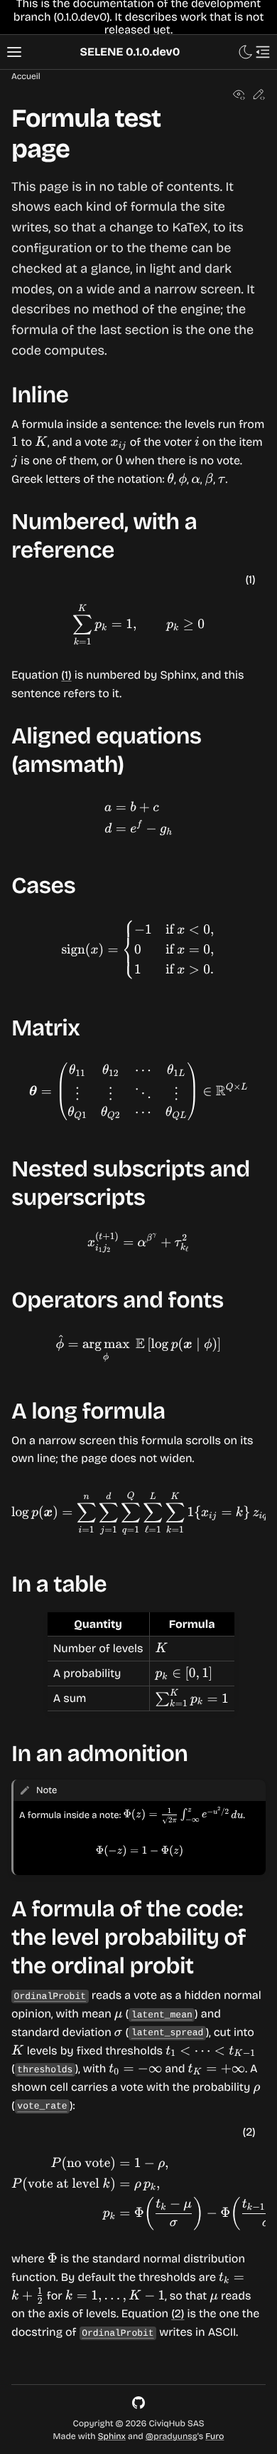
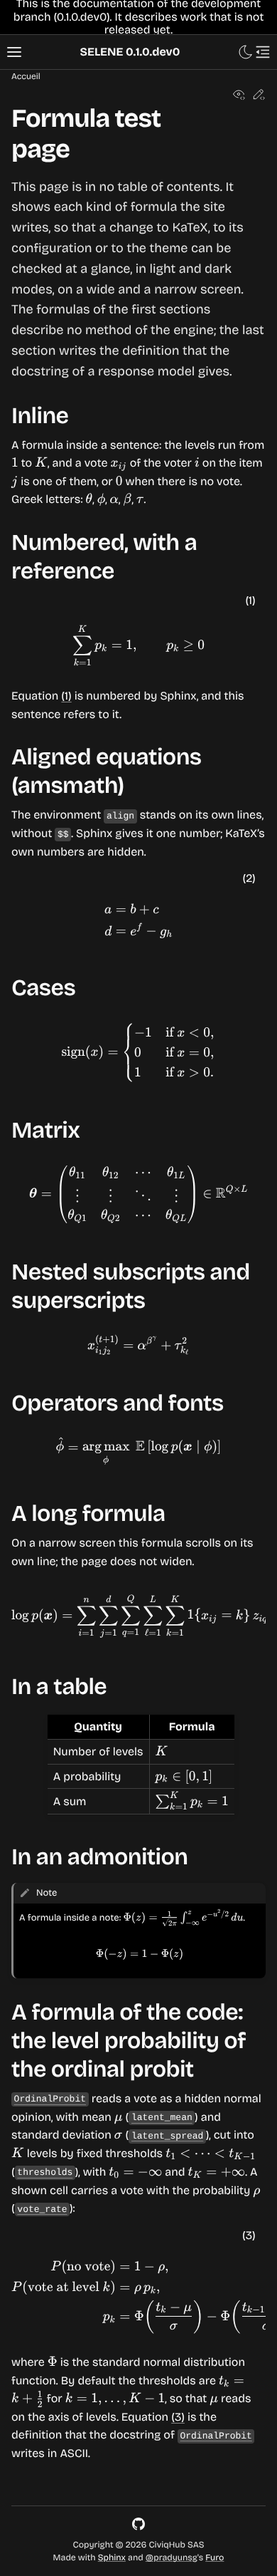
docs(model): add a page that tests the rendering of formulas (SEL-11.5)
docs/model/formula-test.md is in no table of contents (orphan). It shows
each kind of formula the site writes: inline, numbered with an {eq}
reference, an amsmath align that Sphinx numbers, cases, a matrix, nested
subscripts and superscripts, the Greek letters theta, phi, alpha, beta
and tau, \operatorname, \mathbb, \boldsymbol, a long formula that
scrolls, formulas in a table and in an admonition.

Its last section writes the level probability of OrdinalProbit, as its
docstring defines it (src/civiqhub_selene/blocks/responses.py:236-249,
default thresholds at :313-314; computed by level_probabilities in
src/civiqhub_selene/blocks/_numerics.py:107-148), with each symbol
linked to the attribute of OrdinalProbitParameters it stands for.

The review screenshots of SEL-11.3 are taken again on this final page.

diff --git a/docs/model/formula-test.md b/docs/model/formula-test.md
@@ -1,0 +1,103 @@
+---
+orphan: true
+---
+
+# Formula test page
+
+This page is in no table of contents. It shows each kind of formula the site writes, so that a change to KaTeX, to its configuration or to the theme can be checked at a glance, in light and dark modes, on a wide and a narrow screen. The formulas of the first sections describe no method of the engine; the last section writes the definition that the docstring of a response model gives.
+
+## Inline
+
+A formula inside a sentence: the levels run from $1$ to $K$, and a vote $x_{ij}$ of the voter $i$ on the item $j$ is one of them, or $0$ when there is no vote. Greek letters: $\theta$, $\phi$, $\alpha$, $\beta$, $\tau$.
+
+## Numbered, with a reference
+
+$$
+\sum_{k=1}^{K} p_k = 1, \qquad p_k \geq 0
+$$ (eq-test-sum)
+
+Equation {eq}`eq-test-sum` is numbered by Sphinx, and this sentence refers to it.
+
+## Aligned equations (amsmath)
+
+The environment `align` stands on its own lines, without `$$`. Sphinx gives it one number; KaTeX's own numbers are hidden.
+
+\begin{align}
+a &= b + c \\
+d &= e^{f} - g_{h}
+\end{align}
+
+## Cases
+
+$$
+\operatorname{sign}(x) =
+\begin{cases}
+-1 & \text{if } x < 0, \\
+0 & \text{if } x = 0, \\
+1 & \text{if } x > 0.
+\end{cases}
+$$
+
+## Matrix
+
+$$
+\boldsymbol{\theta} =
+\begin{pmatrix}
+\theta_{11} & \theta_{12} & \cdots & \theta_{1L} \\
+\vdots & \vdots & \ddots & \vdots \\
+\theta_{Q1} & \theta_{Q2} & \cdots & \theta_{QL}
+\end{pmatrix}
+\in \mathbb{R}^{Q \times L}
+$$
+
+## Nested subscripts and superscripts
+
+$$
+x_{i_{1}j_{2}}^{(t+1)} = \alpha^{\beta^{\gamma}} + \tau_{k_{\ell}}^{2}
+$$
+
+## Operators and fonts
+
+$$
+\hat{\phi} = \operatorname*{arg\,max}_{\phi} \; \mathbb{E}\left[\log p(\boldsymbol{x} \mid \phi)\right]
+$$
+
+## A long formula
+
+On a narrow screen this formula scrolls on its own line; the page does not widen.
+
+$$
+\log p(\boldsymbol{x}) = \sum_{i=1}^{n} \sum_{j=1}^{d} \sum_{q=1}^{Q} \sum_{\ell=1}^{L} \sum_{k=1}^{K} \mathbb{1}\{x_{ij} = k\} \, z_{iq} \, w_{j\ell} \, \log \left( \frac{\exp(\theta_{q\ell k})}{\sum_{h=1}^{K} \exp(\theta_{q\ell h})} \right) + \sum_{i=1}^{n} \sum_{q=1}^{Q} z_{iq} \log \alpha_q + \sum_{j=1}^{d} \sum_{\ell=1}^{L} w_{j\ell} \log \beta_\ell
+$$
+
+## In a table
+
+| Quantity | Formula |
+| --- | --- |
+| Number of levels | $K$ |
+| A probability | $p_k \in [0, 1]$ |
+| A sum | $\sum_{k=1}^{K} p_k = 1$ |
+
+## In an admonition
+
+:::{note}
+A formula inside a note: $\Phi(z) = \frac{1}{\sqrt{2\pi}} \int_{-\infty}^{z} e^{-u^2/2} \, du$.
+
+$$
+\Phi(-z) = 1 - \Phi(z)
+$$
+:::
+
+## A formula of the code: the level probability of the ordinal probit
+
+{py:class}`~civiqhub_selene.blocks.responses.OrdinalProbit` reads a vote as a hidden normal opinion, with mean $\mu$ ({py:attr}`~civiqhub_selene.blocks.responses.OrdinalProbitParameters.latent_mean`) and standard deviation $\sigma$ ({py:attr}`~civiqhub_selene.blocks.responses.OrdinalProbitParameters.latent_spread`), cut into $K$ levels by fixed thresholds $t_1 < \dots < t_{K-1}$ ({py:attr}`~civiqhub_selene.blocks.responses.OrdinalProbitParameters.thresholds`), with $t_0 = -\infty$ and $t_K = +\infty$. A shown cell carries a vote with the probability $\rho$ ({py:attr}`~civiqhub_selene.blocks.responses.OrdinalProbitParameters.vote_rate`):
+
+$$
+\begin{aligned}
+P(\text{no vote}) &= 1 - \rho, \\
+P(\text{vote at level } k) &= \rho \, p_k, \\
+p_k &= \Phi\!\left(\frac{t_k - \mu}{\sigma}\right) - \Phi\!\left(\frac{t_{k-1} - \mu}{\sigma}\right),
+\end{aligned}
+$$ (eq-test-ordinal-probit)
+
+where $\Phi$ is the standard normal distribution function. By default the thresholds are $t_k = k + \tfrac{1}{2}$ for $k = 1, \dots, K - 1$, so that $\mu$ reads on the axis of levels. Equation {eq}`eq-test-ordinal-probit` is the definition that the docstring of {py:class}`~civiqhub_selene.blocks.responses.OrdinalProbit` writes in ASCII.
